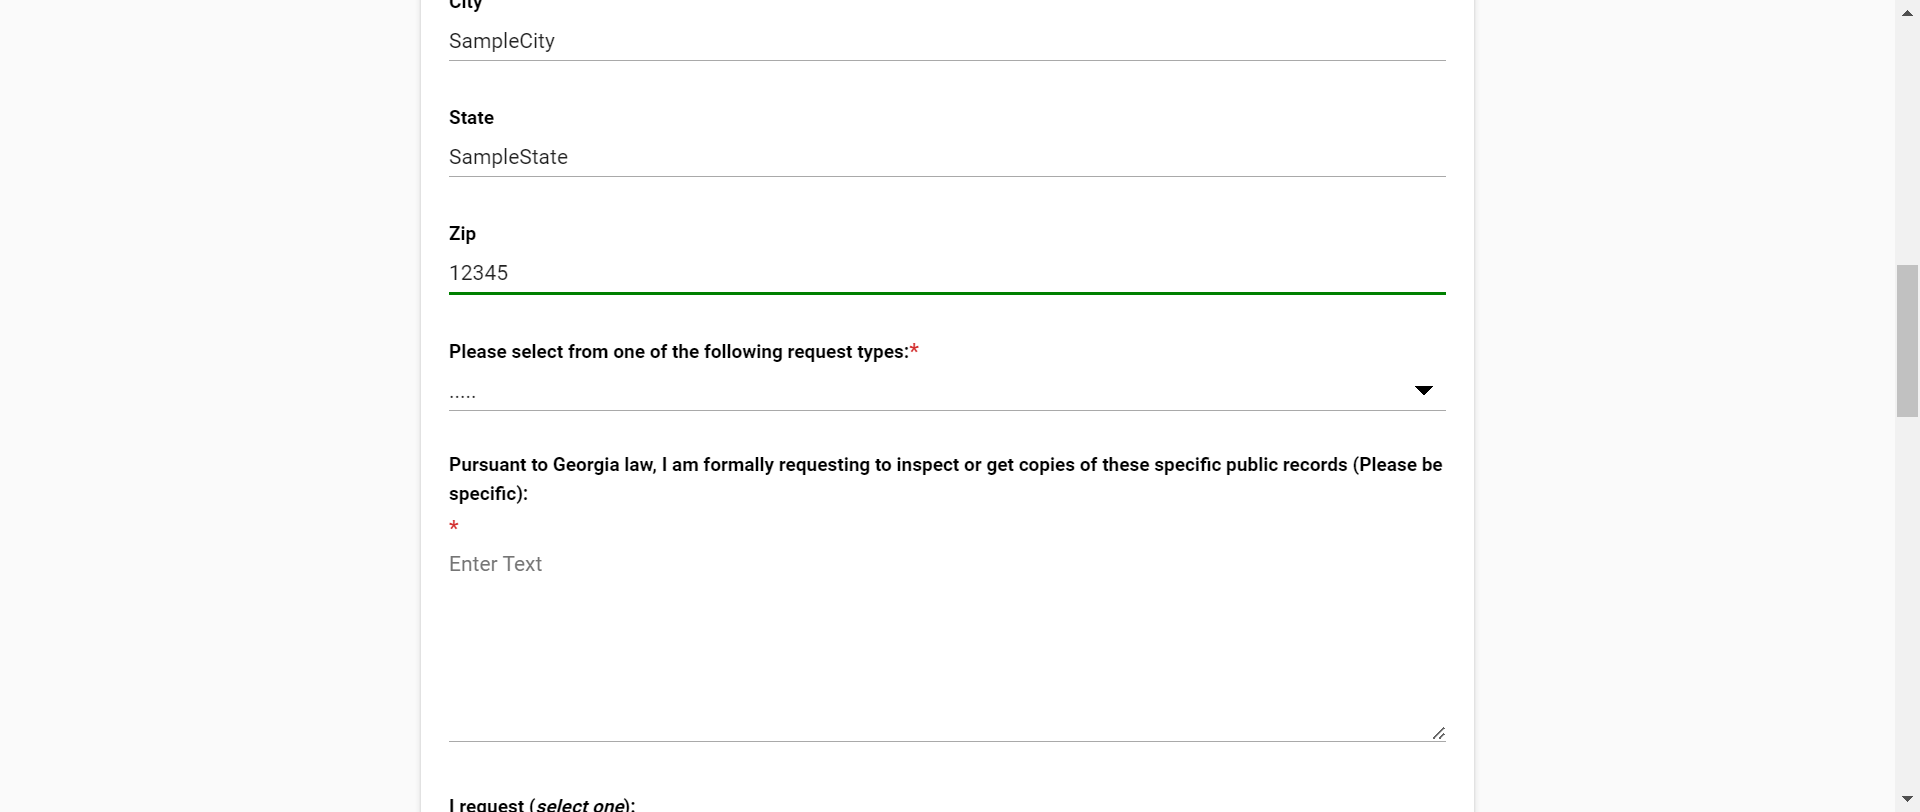
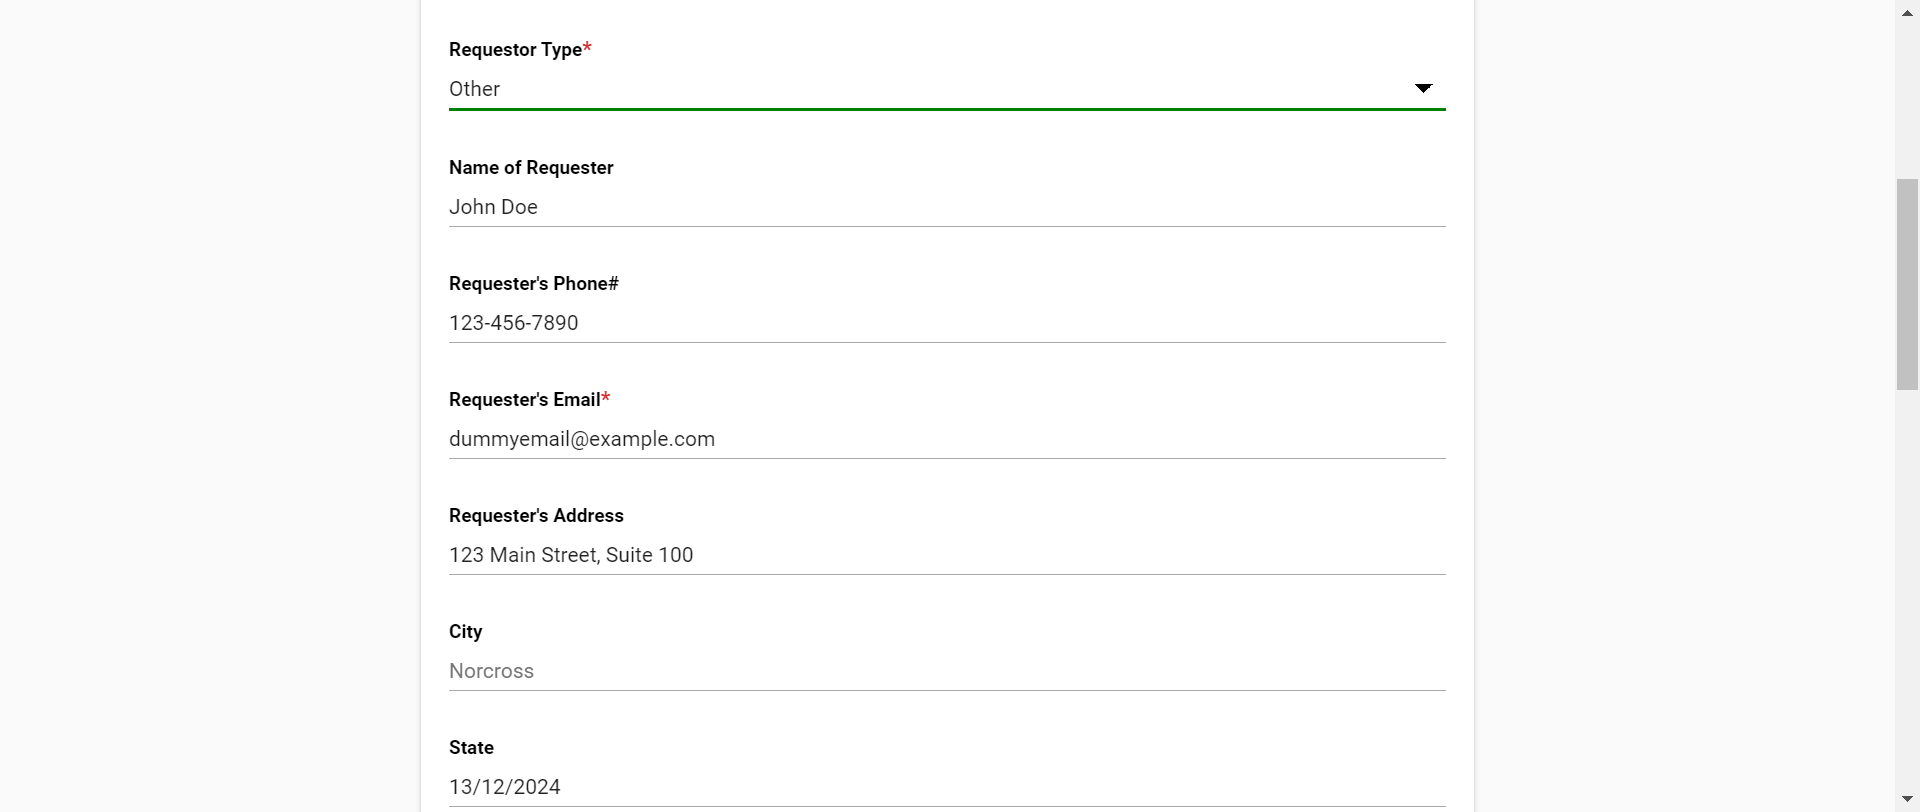
headerless work done for bot 1

diff --git a/bot1.py b/bot1.py
@@ -76,6 +76,8 @@ def fill_field(driver, wait, xpath, value):
         print(f"Filled field at {xpath} with value: {value}")
     except Exception as e:
         print(f"Error filling field at {xpath}: {str(e)}")
+
+
 def handle_tucker_form(driver, url):
     try:
         driver.get(url)
@@ -1871,59 +1873,49 @@ def handle_duluthga_form(driver, url):
         print(f"Error in form handling: {str(e)}")
         driver.save_screenshot("error_main.png")
         return {"status": "Failed", "error": str(e)}
-  
+    
 def handle_norcrossga_form(driver, url):
-   
     try:
         driver.get(url)
         wait = WebDriverWait(driver, 20)
 
         # Wait for page to load completely
         time.sleep(7)
+          # Handle dropdown selection
+        dropdown1_xpath = "/html/body/div[1]/div[2]/main/div/div[1]/form/div[2]/div/div[4]/div/div[1]/select"
+        dropdown1 = Select(wait.until(EC.presence_of_element_located((By.XPATH, dropdown1_xpath))))
+        available_options = [o.text.strip() for o in dropdown1.options]
+        print("Available options in dropdown:", available_options)
+        dropdown1.select_by_visible_text("Other")  # Adjust text as per available options
+        print("Selected dropdown option")
 
         # Fill all fields
         fields_to_fill = {
-            "/html/body/div[1]/div[2]/main/div/div[1]/form/div[2]/div/div[4]/div/div[1]/input": form_data["person represented"],
             "/html/body/div[1]/div[2]/main/div/div[1]/form/div[2]/div/div[5]/div/div[1]/input": form_data["name"],
             "/html/body/div[1]/div[2]/main/div/div[1]/form/div[2]/div/div[6]/div/div[1]/input": form_data["phone"],
             "/html/body/div[1]/div[2]/main/div/div[1]/form/div[2]/div/div[7]/div/div[1]/input": form_data["email"],
             "/html/body/div[1]/div[2]/main/div/div[1]/form/div[2]/div/div[8]/div/div[1]/input": form_data["address"],
-            "/html/body/div[1]/div[2]/main/div/div[1]/form/div[2]/div/div[10]/div/div[1]/input": form_data["date"],
-            "/html/body/div[1]/div[2]/main/div/div[1]/form/div[2]/div/div[11]/div/div[1]/input": form_data["time"],
-            "/html/body/div[1]/div[2]/main/div/div[1]/form/div[2]/div/div[12]/div/div[1]/input": form_data["address"],
-             "/html/body/div[1]/div[2]/main/div/div[1]/form/div[2]/div/div[16]/div/div[1]/input": form_data["case number"]
+            "/html/body/div[1]/div[2]/main/div/div[1]/form/div[2]/div/div[9]/div/div[1]/input": form_data["city"],
+            "/html/body/div[1]/div[2]/main/div/div[1]/form/div[2]/div/div[10]/div/div[1]/input": form_data["state"],
+            "/html/body/div[1]/div[2]/main/div/div[1]/form/div[2]/div/div[11]/div/div[1]/input": form_data["zip"],
+             "/html/body/div[1]/div[2]/main/div/div[1]/form/div[2]/div/div[13]/div/div[1]/input": form_data["case number"]
         }
 
         for xpath, value in fields_to_fill.items():
             fill_field(driver, wait, xpath, value)
 
         # Fill request details
-        details_xpath = "/html/body/div[1]/div[2]/main/div/div[1]/form/div[2]/div/div[20]/div/div[1]/textarea"
+        details_xpath = "/html/body/div[1]/div[2]/main/div/div[1]/form/div[2]/div/div[15]/div/div[1]/textarea"
         details = wait.until(EC.presence_of_element_located((By.XPATH, details_xpath)))
         details.clear()
         details.send_keys(form_data["message"])
         print("Filled request details")
 
-           #checkbox
-        checkbox1_xpath = "/html/body/div[1]/div[2]/main/div/div[1]/form/div[2]/div/div[13]/div/div[1]/div/div/div/div/div/div/div"
-        for checkbox_xpath in [checkbox1_xpath]:
-            checkbox = wait.until(EC.element_to_be_clickable((By.XPATH, checkbox_xpath)))
-            driver.execute_script("arguments[0].click();", checkbox)
-            print(f"Checked {checkbox_xpath}")
-
-        # Handle dropdown selection
-        dropdown1_xpath = "/html/body/div[1]/div[2]/main/div/div[1]/form/div[2]/div/div[19]/div/div[1]/select"
-        dropdown1 = Select(wait.until(EC.presence_of_element_located((By.XPATH, dropdown1_xpath))))
-        available_options = [o.text.strip() for o in dropdown1.options]
-        print("Available options in dropdown:", available_options)
-        dropdown1.select_by_visible_text("Yes")  # Adjust text as per available options
-        print("Selected dropdown option")
-
         # Take screenshot before submission
         driver.save_screenshot("before_submit.png")
 
         # Submit form
-        submit_xpath = "/html/body/div[1]/div[2]/main/div/div[1]/form/div[4]/div/button"
+        submit_xpath = "/html/body/div[1]/div[2]/main/div/div[1]/form/div[4]/div/button/div"
         submit_button = wait.until(EC.element_to_be_clickable((By.XPATH, submit_xpath)))
         driver.execute_script("arguments[0].click();", submit_button)
         print("Clicked submit button")
